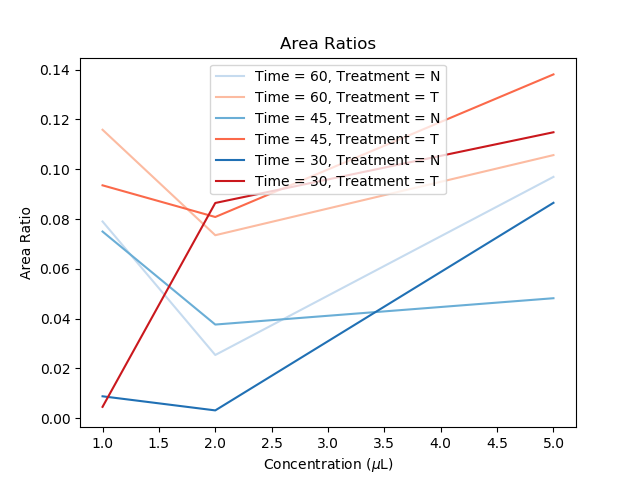
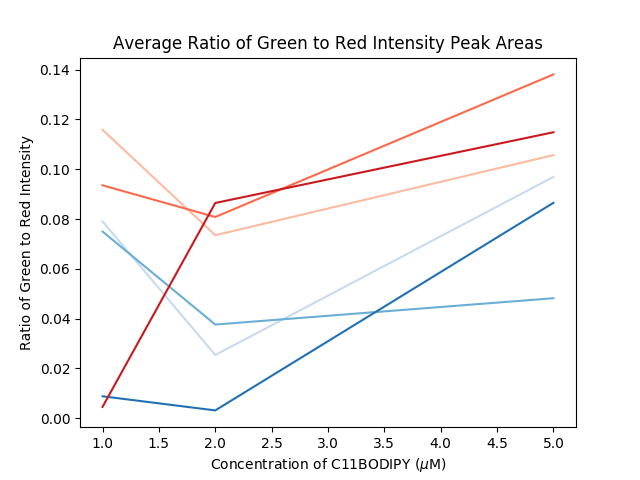
Tweaks to titles and labels

Changed region(s): [[0.1562, 0.0625, 0.8438, 0.4062], [0.3438, 0.9375, 0.6875, 1.0], [0.0312, 0.2812, 0.0625, 0.75]]

diff --git a/Image_Processing/plotting.py b/Image_Processing/plotting.py
@@ -25,32 +25,30 @@ def plot_FA(input="result_summary.csv", show=False):
     blues = plt.cm.Blues(np.linspace(0.25, 0.75, n_colors))
     reds = plt.cm.Reds(np.linspace(0.25, 0.75, n_colors))
     cmap = [blues, reds]
-
-    plt.figure()
     for i, T in enumerate(times):
-        plt.title("Average Peak Ratios")
+        plt.title("Average Ratio of Green to Red Intensity Peak Heights")
         for j, Tr in enumerate(treatments):
             x = frame['Concentration'][(frame['Time'] == T) & (frame['Treatment'] == Tr)]
             y = frame['Average Peak Ratio'][(frame['Time'] == T) & (frame['Treatment'] == Tr)]
             plt.plot(np.asarray(x, dtype=float), np.asarray(y, dtype=float),
                      label="Time = {}min, Treatment = {}".format(T, Tr), color=cmap[j][i])
-        plt.xlabel("Concentration ($\mu$M)")
-        plt.ylabel("Average Peak Height Ratio")
+        plt.xlabel("Concentration of C11BODIPY ($\mu$M)")
+        plt.ylabel("Ratio of Green to Red Intensity")
         plt.legend(loc='best')
     if not show:
         plt.savefig("PeakHeightRatios.png")
 
     plt.figure()
     for i, T in enumerate(times):
-        plt.title("Area Ratios")
+        plt.title("Average Ratio of Green to Red Intensity Peak Areas")
         for j, Tr in enumerate(treatments):
             x = frame['Concentration'][(frame['Time'] == T) & (frame['Treatment'] == Tr)]
             y = frame['Area Ratio'][(frame['Time'] == T) & (frame['Treatment'] == Tr)]
             plt.plot(np.asarray(x, dtype=float), np.asarray(y, dtype=float),
                      label="Time = {}min, Treatment = {}".format(T, Tr), color=cmap[j][i])
-        plt.xlabel("Concentration ($\mu$M)")
-        plt.ylabel("Average Peak Area Ratio")
-        plt.legend(loc='lower right')
+        plt.xlabel("Concentration of C11BODIPY ($\mu$M)")
+        plt.ylabel("Ratio of Green to Red Intensity")
+        # plt.legend(loc='lower right')
     if not show:
         plt.savefig("AreaRatio.png")
     else:

diff --git a/Image_Processing/Ferroptosis_Analysis.py b/Image_Processing/Ferroptosis_Analysis.py
@@ -83,7 +83,7 @@ def proc_sheet(plot_peaks=False):
 def main():
     if not os.path.isfile("result_summary.csv"):
         proc_sheet()
-    plot_FA("result_summary.csv", show=True)
+    plot_FA("result_summary.csv", show=False)
 
 
 if __name__ == "__main__":
